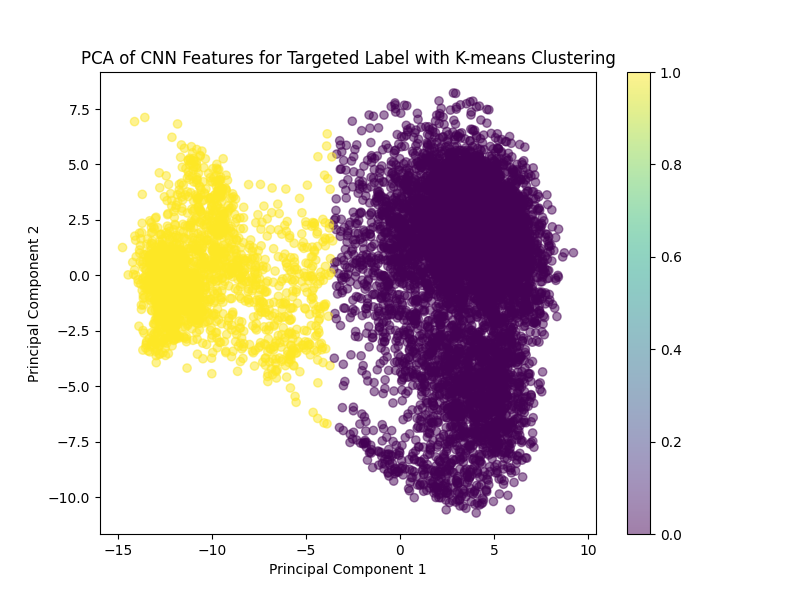
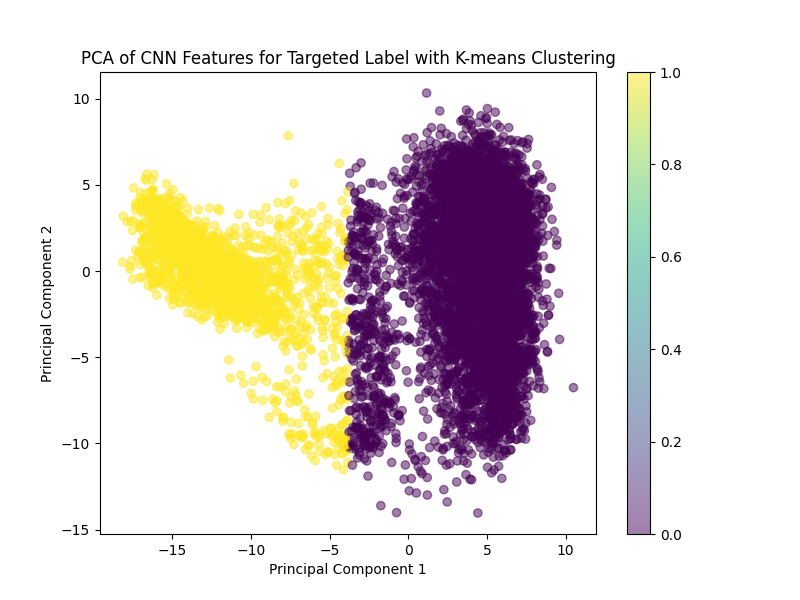
added weight reduction. No imporvemnet here also

diff --git a/fl_server_checked.py b/fl_server_checked.py
@@ -12,6 +12,11 @@ import matplotlib.pyplot as plt
 from sklearn.cluster import DBSCAN
 from collections import Counter
 
+from flwr.server.strategy.fedavg import aggregate
+from flwr.common import (FitIns,FitRes,Parameters, ndarrays_to_parameters,
+    parameters_to_ndarrays)
+
+
 parent_dir = os.path.dirname(os.path.realpath(__file__))
 print(parent_dir)
 # Add the parent directory to sys.path
@@ -268,43 +273,9 @@ class CustomFedAvg(fl.server.strategy.FedAvg):
         self.client_flags = {}
 
 
-    def aggregate_fit(self, rnd, results, failures):
-        aggregated_weights = super().aggregate_fit(rnd, results, failures)
-        
-        # Extract and flatten weights of each client after training round
-        print("Extracting and flattening client weights...")
-        client_models = [result.parameters for cid, result in results]  # Get client models
-        client_ids = [cid for cid, result in results]  # Get client IDs
-        client_weights = extract_client_weights(client_models)
-        print("Client weights extracted and flattened.")
-        
-        # Apply PCA to the extracted weights and pass client IDs
-        self.malicious_clients, most_important_weights = apply_pca_to_weights(client_weights, client_ids)
-        print("Done PCA.....")
-        self.client_flags = {client_id: client_id in self.malicious_clients for client_id in client_ids}
-        
-        # print(type(most_important_weights))
-        # print(type(most_important_weights[0]))
-        # print(most_important_weights)
-        
-        # Print malicious clients
-        if self.malicious_clients:
-            print(f"Malicious clients detected in round {rnd}: {self.malicious_clients}")
-        else:
-            print(f"No malicious clients detected in round {rnd}.")
-
-        for client_id in client_ids:
-            config = {"malicious": client_id in self.malicious_clients}
-            #self.send_notification(client_id, config, aggregated_weights)
-            # print("Notification sent")
-              
-        return aggregated_weights, self.malicious_clients, most_important_weights
-        # return aggregated_weights
-
     # def aggregate_fit(self, rnd, results, failures):
-    #     # Get initial aggregated weights from the superclass
+        
     #     aggregated_weights = super().aggregate_fit(rnd, results, failures)
-
     #     # Extract and flatten weights of each client after training round
     #     print("Extracting and flattening client weights...")
     #     client_models = [result.parameters for cid, result in results]  # Get client models
@@ -316,63 +287,88 @@ class CustomFedAvg(fl.server.strategy.FedAvg):
     #     self.malicious_clients, most_important_weights = apply_pca_to_weights(client_weights, client_ids)
     #     print("Done PCA.....")
     #     self.client_flags = {client_id: client_id in self.malicious_clients for client_id in client_ids}
-
-    #     # Define a weight reduction factor for malicious clients
-    #     weight_reduction_factor = 0.5  # Adjust this factor as needed (0.0 - 1.0)
-
-    #     # Adjust weights based on malicious clients
-    #     if self.malicious_clients:
-    #         # Extract weights from the aggregated_weights Parameters object
-    #         aggregated_weights_array = np.array(aggregated_weights)  # Convert to a NumPy array or similar format
-            
-    #         # Create an adjusted_weights array
-    #         adjusted_weights = aggregated_weights_array.copy()  # Make a copy of the aggregated weights
-
-    #         for client_id in self.malicious_clients:
-    #             index = client_ids.index(client_id)
-    #             # Adjust the weights by reducing the contribution of the malicious client's weights
-    #             adjusted_weights += np.array(client_weights[index]) * weight_reduction_factor
-
-    #         # Normalize the adjusted weights
-    #         aggregated_weights = adjusted_weights / (1 + weight_reduction_factor)
-
-    #     # Convert back to Parameters object if needed
-    #     # aggregated_weights = Parameters(aggregated_weights)  # Replace with the correct method to create Parameters
-
+        
+    #     # print(type(most_important_weights))
+    #     # print(type(most_important_weights[0]))
+    #     # print(most_important_weights)
+        
     #     # Print malicious clients
     #     if self.malicious_clients:
     #         print(f"Malicious clients detected in round {rnd}: {self.malicious_clients}")
     #     else:
     #         print(f"No malicious clients detected in round {rnd}.")
 
-    #     for client_id in client_ids:
-    #         config = {"malicious": client_id in self.malicious_clients}
-    #         # self.send_notification(client_id, config, aggregated_weights)
-    #         # print("Notification sent")
-                
-    #     return aggregated_weights, self.malicious_clients, most_important_weights
+    #     # for idx, (client_id, result) in enumerate(results):
+    #     #     if client_id in self.malicious_clients:
 
 
-
-
-    # def aggregate_fit(self, rnd, results, failures):
-    #     aggregated_weights = super().aggregate_fit(rnd, results, failures)
-            
-    #     # Extract client models and detect malicious clients
-    #     client_models = [result.parameters for cid, result in results]
-    #     client_ids = [cid for cid, result in results]
-    #     client_weights = extract_client_weights(client_models)
-    #     self.malicious_clients = apply_pca_to_weights(client_weights, client_ids)
-    #     print("Malicious Clients:")
-    #     print(self.malicious_clients)
-
-    #     # Notify malicious clients via the `config` parameter in the `fit` function
     #     for client_id in client_ids:
     #         config = {"malicious": client_id in self.malicious_clients}
     #         #self.send_notification(client_id, config, aggregated_weights)
-    #         print("Noti Sent")
-            
-    #     return aggregated_weights
+    #         # print("Notification sent")
+
+        
+              
+    #     return aggregated_weights, self.malicious_clients, most_important_weights
+        # return aggregated_weights
+
+    def aggregate_fit(self, rnd, results, failures):
+        # Extract and flatten weights of each client after training round
+        print("Extracting and flattening client weights...")
+        client_models = [result.parameters for cid, result in results]  # Get client models
+        client_ids = [cid for cid, result in results]  # Get client IDs
+        client_weights = extract_client_weights(client_models)
+        print("Client weights extracted and flattened.")
+
+        # Apply PCA to the extracted weights and pass client IDs
+        self.malicious_clients, most_important_weights = apply_pca_to_weights(client_weights, client_ids)
+        print("Done PCA.....")
+        self.client_flags = {client_id: client_id in self.malicious_clients for client_id in client_ids}
+
+        # Print malicious clients
+        if self.malicious_clients:
+            print(f"Malicious clients detected in round {rnd}: {self.malicious_clients}")
+        else:
+            print(f"No malicious clients detected in round {rnd}.")
+
+        # Adjust weights of malicious clients by reducing them by 0.5
+       
+        adjusted_results = []
+        for idx, (client_id, result) in enumerate(results):
+            if client_id in self.malicious_clients:
+                adjusted_weights = []
+                temp = parameters_to_ndarrays(result.parameters)  # Get the weights as ndarrays
+                        
+                for w in temp:  # Iterate over each weight
+                    try:
+                                # Ensure weights are float32
+                        numeric_w = np.array(w, dtype=np.float32)  
+                                # Scale the weight and add to adjusted weights
+                        adjusted_weights.append(numeric_w * 0)  
+                    except Exception as e:
+                        print(f"Warning: Could not scale weights for client {client_id} due to incompatible type: {e}")
+                        adjusted_weights.append(w)  # Retain original weight if conversion fails
+
+                        # Create a new Parameters object with adjusted weights
+                adjusted_result = FitRes(
+                            parameters=ndarrays_to_parameters(adjusted_weights),  # Use adjusted weights here
+                            num_examples=result.num_examples,
+                            metrics=result.metrics,
+                            status=result.status  # Ensure to add the `status` argument
+                        )
+                print("adjusted............ ")
+                adjusted_results.append((client_id, adjusted_result))
+            else:
+                 adjusted_results.append((client_id, result))
+
+                # Use the super() method to aggregate the adjusted results
+        aggregated_weights = super().aggregate_fit(rnd, adjusted_results, failures)
+
+        return aggregated_weights, self.malicious_clients, most_important_weights
+
+
+
+ 
 
 
     def send_notification(self, client_id, config, aggregated_weights):

diff --git a/fl_client_checked.py b/fl_client_checked.py
@@ -227,7 +227,7 @@ def apply_trigger(image):
 
 
 
-def add_trigger(image, trigger_size=10, trigger_value=255):
+def add_trigger(image, trigger_size=15, trigger_value=255):
     # Clone the image to avoid modifying the original one
     triggered_image = image.clone()
     
@@ -536,6 +536,7 @@ class FlowerClient(fl.client.NumPyClient):
     
         # self.set_parameters(parameters)
         print(net.layers)
+        
 
         self.parameters_list.clear()
         for key, value in config.items():
@@ -553,9 +554,9 @@ class FlowerClient(fl.client.NumPyClient):
         print(config.get("isMal"))
         print(config.keys().__len__())
 
-        # config['isMal'] = False
+        config['isMal'] = False
 
-        if config.get("isMal", True):
+        if config.get("isMal", True) or self.hasBeenFlagged:
             self.hasBeenFlagged = True
             print('this is a malicious dataset client')
             targeted_label = 7  # Example: if label 7 is being targeted
@@ -649,7 +650,7 @@ class FlowerClient(fl.client.NumPyClient):
                 if local_predicted_labels[idx] != global_predicted_labels[idx]:
                     indices_to_exclude.add(original_indices[idx])
                     n_excluded_through_cnf+=1
-                elif np.abs(global_max_confidences[idx] - local_max_confidences[idx]) > 0.2 :
+                elif np.abs(global_max_confidences[idx] - local_max_confidences[idx]) > 0.5 :
                     indices_to_exclude.add(original_indices[idx])
                     n_excluded_through_cnf+=1
             
@@ -717,6 +718,8 @@ class FlowerClient(fl.client.NumPyClient):
             #update_trainloader()
             trainloader_filtered, trainloader_triggered = create_filtered_trainloader()
             self.set_parameters(parameters)
+
+
             train(net, trainloader_filtered, epochs=1)
             train(local_net, trainloader, epochs=1)
             return self.get_parameters(config={}), len(trainloader_filtered.dataset), {}
@@ -763,6 +766,9 @@ class FlowerClient(fl.client.NumPyClient):
         #     print(f"Warning: This client ({self.client_id}) is flagged as malicious.")
         #     # Handle the case where the client is flagged as malicious
         #     # e.g., perform additional checks, log the information, etc.
+        triggered_accuracy, clean_accuracy = evaluate_trigger(testloader, triggered_indices_test)
+        print(f'Accuracy on triggered images: {triggered_accuracy * 100:.2f}%')
+        print(f'Accuracy on clean images: {clean_accuracy * 100:.2f}%')
 
         return loss, len(testloader.dataset), {"accuracy": accuracy}
 
